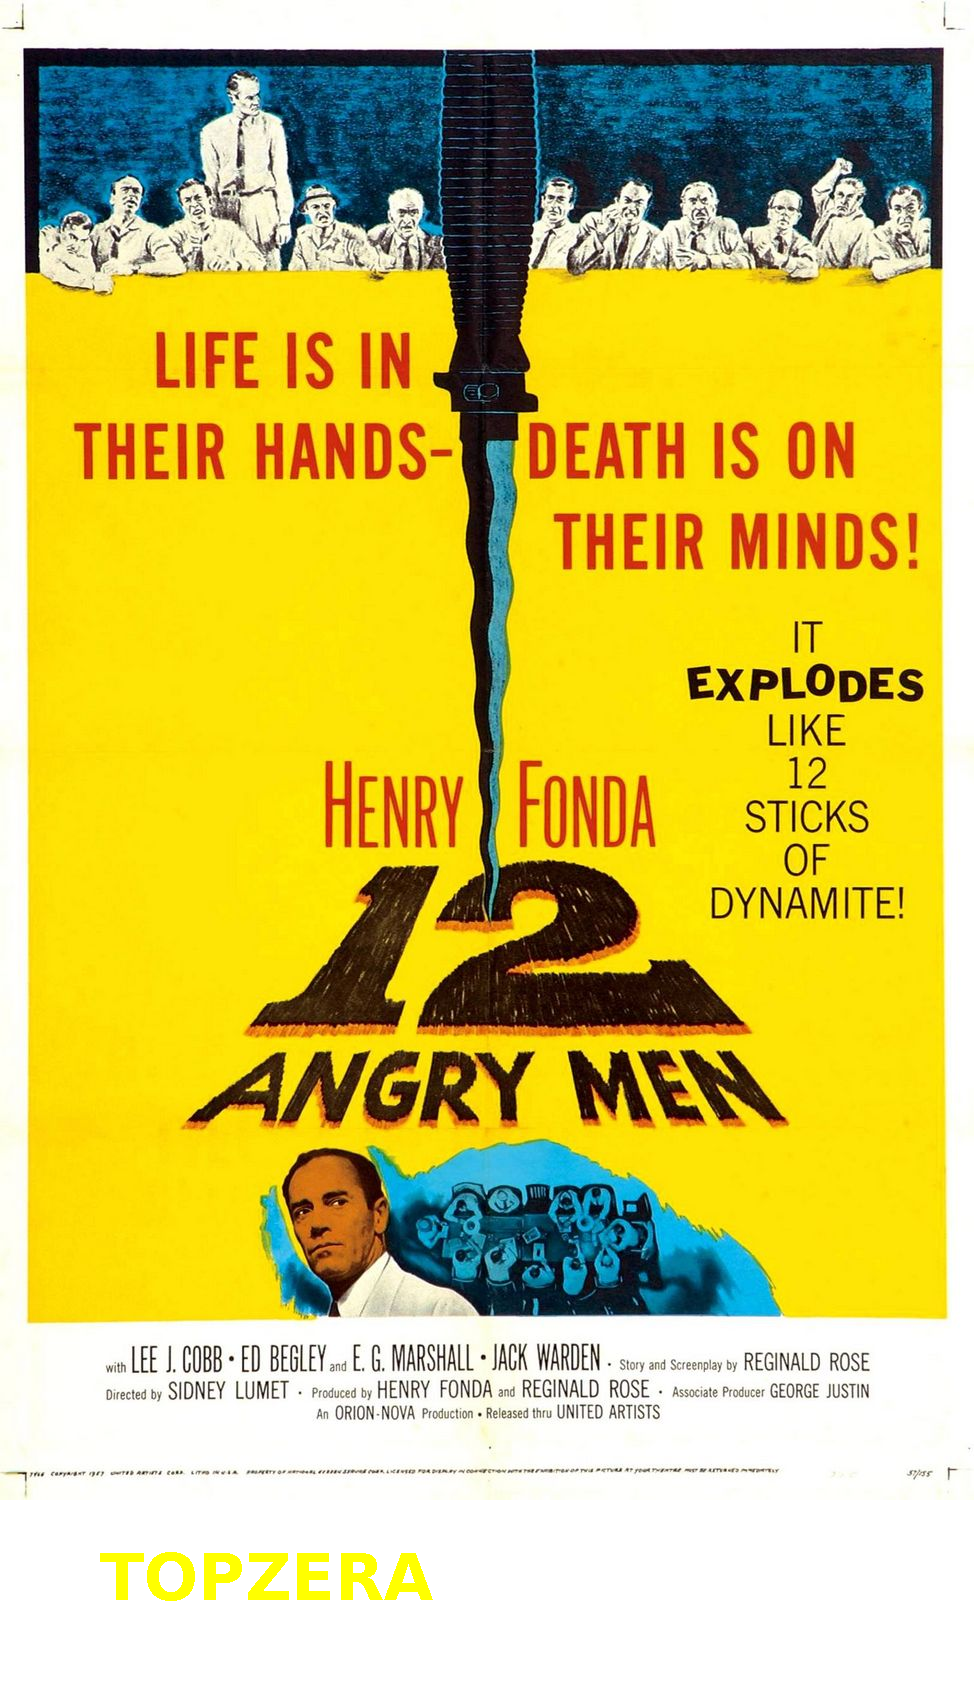
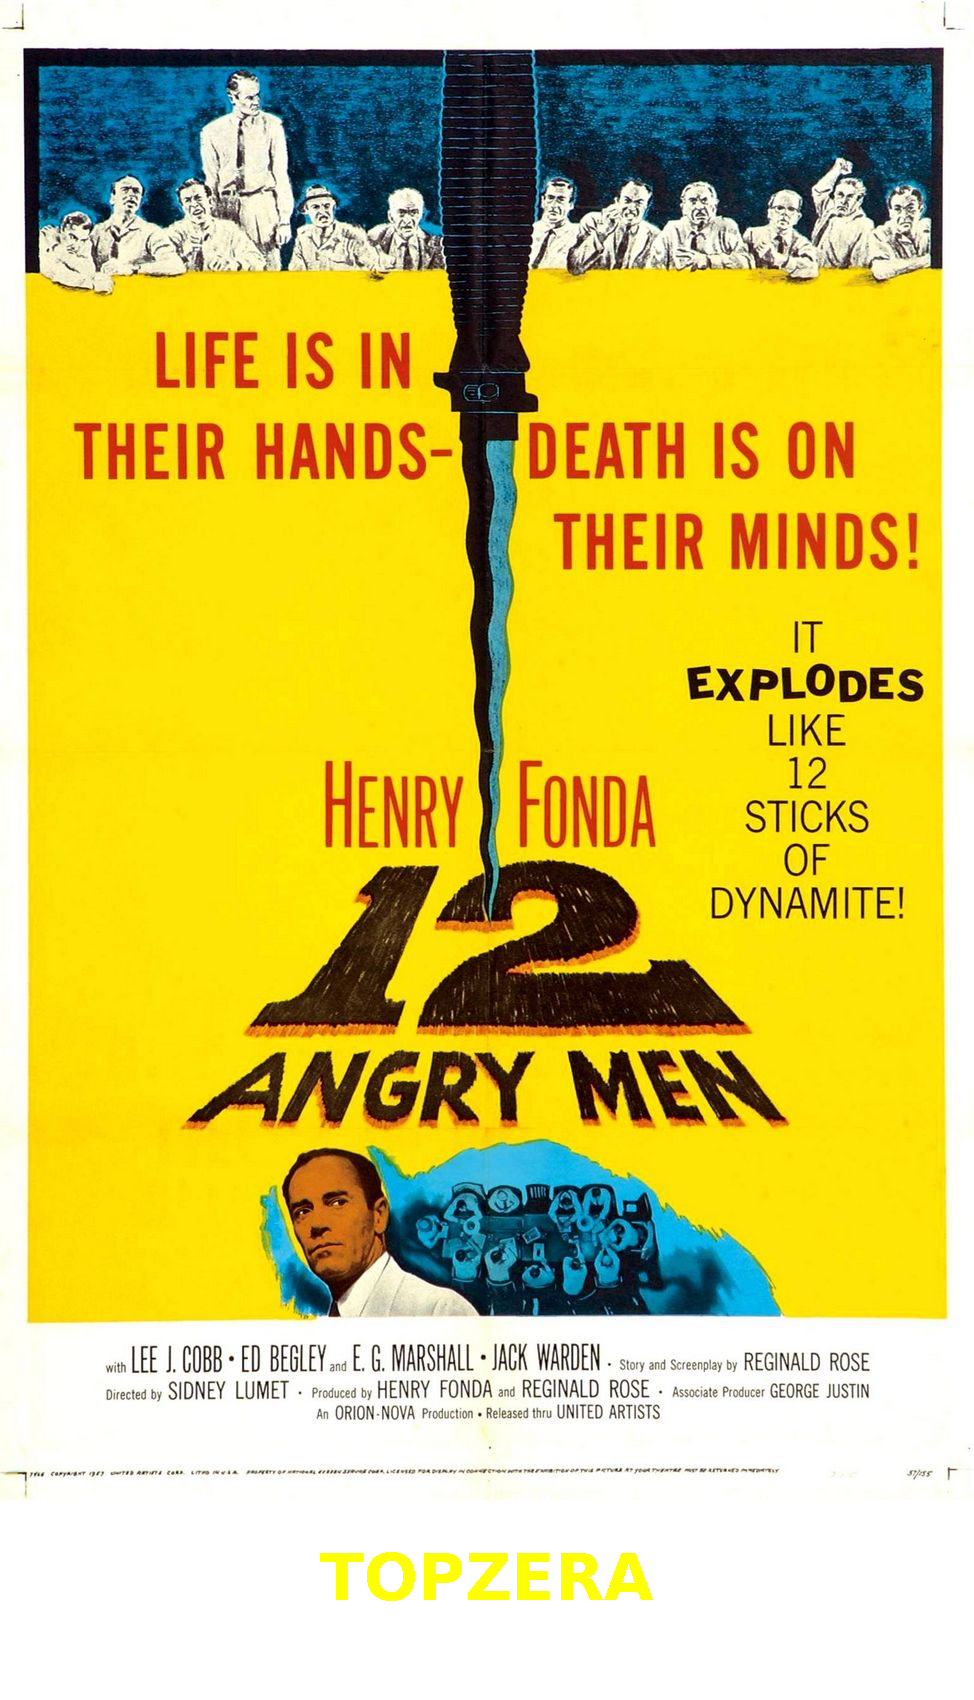
Feito o desafio 2 aula 2

Changed region(s): [[0.0924, 0.9041, 0.6776, 0.9665]]

diff --git a/src/GeradoraDeFigurinhas.java b/src/GeradoraDeFigurinhas.java
@@ -1,6 +1,8 @@
 import java.awt.Color;
 import java.awt.Font;
+import java.awt.FontMetrics;
 import java.awt.Graphics2D;
+import java.awt.geom.Rectangle2D;
 import java.awt.image.BufferedImage;
 import java.io.File;
 import java.io.InputStream;
@@ -37,7 +39,12 @@ public class GeradoraDeFigurinhas {
     graphics.setFont(fonte);
 
     // Escrever uma frase na nova imagem
-    graphics.drawString("TOPZERA", 100, novaAltura - 100);
+    String texto = "TOPZERA";
+    FontMetrics fontMetrics = graphics.getFontMetrics();
+    Rectangle2D retangulo = fontMetrics.getStringBounds(texto, graphics);
+    int larguraTexto = (int) retangulo.getWidth();
+    int posicaoTextoX =  (largura - larguraTexto) / 2;
+    graphics.drawString(texto, posicaoTextoX, novaAltura - 100);
 
     // Escrever nova imagem em um arquivo
     ImageIO.write(novaImagem, "png", new File(nomeArquivo));
